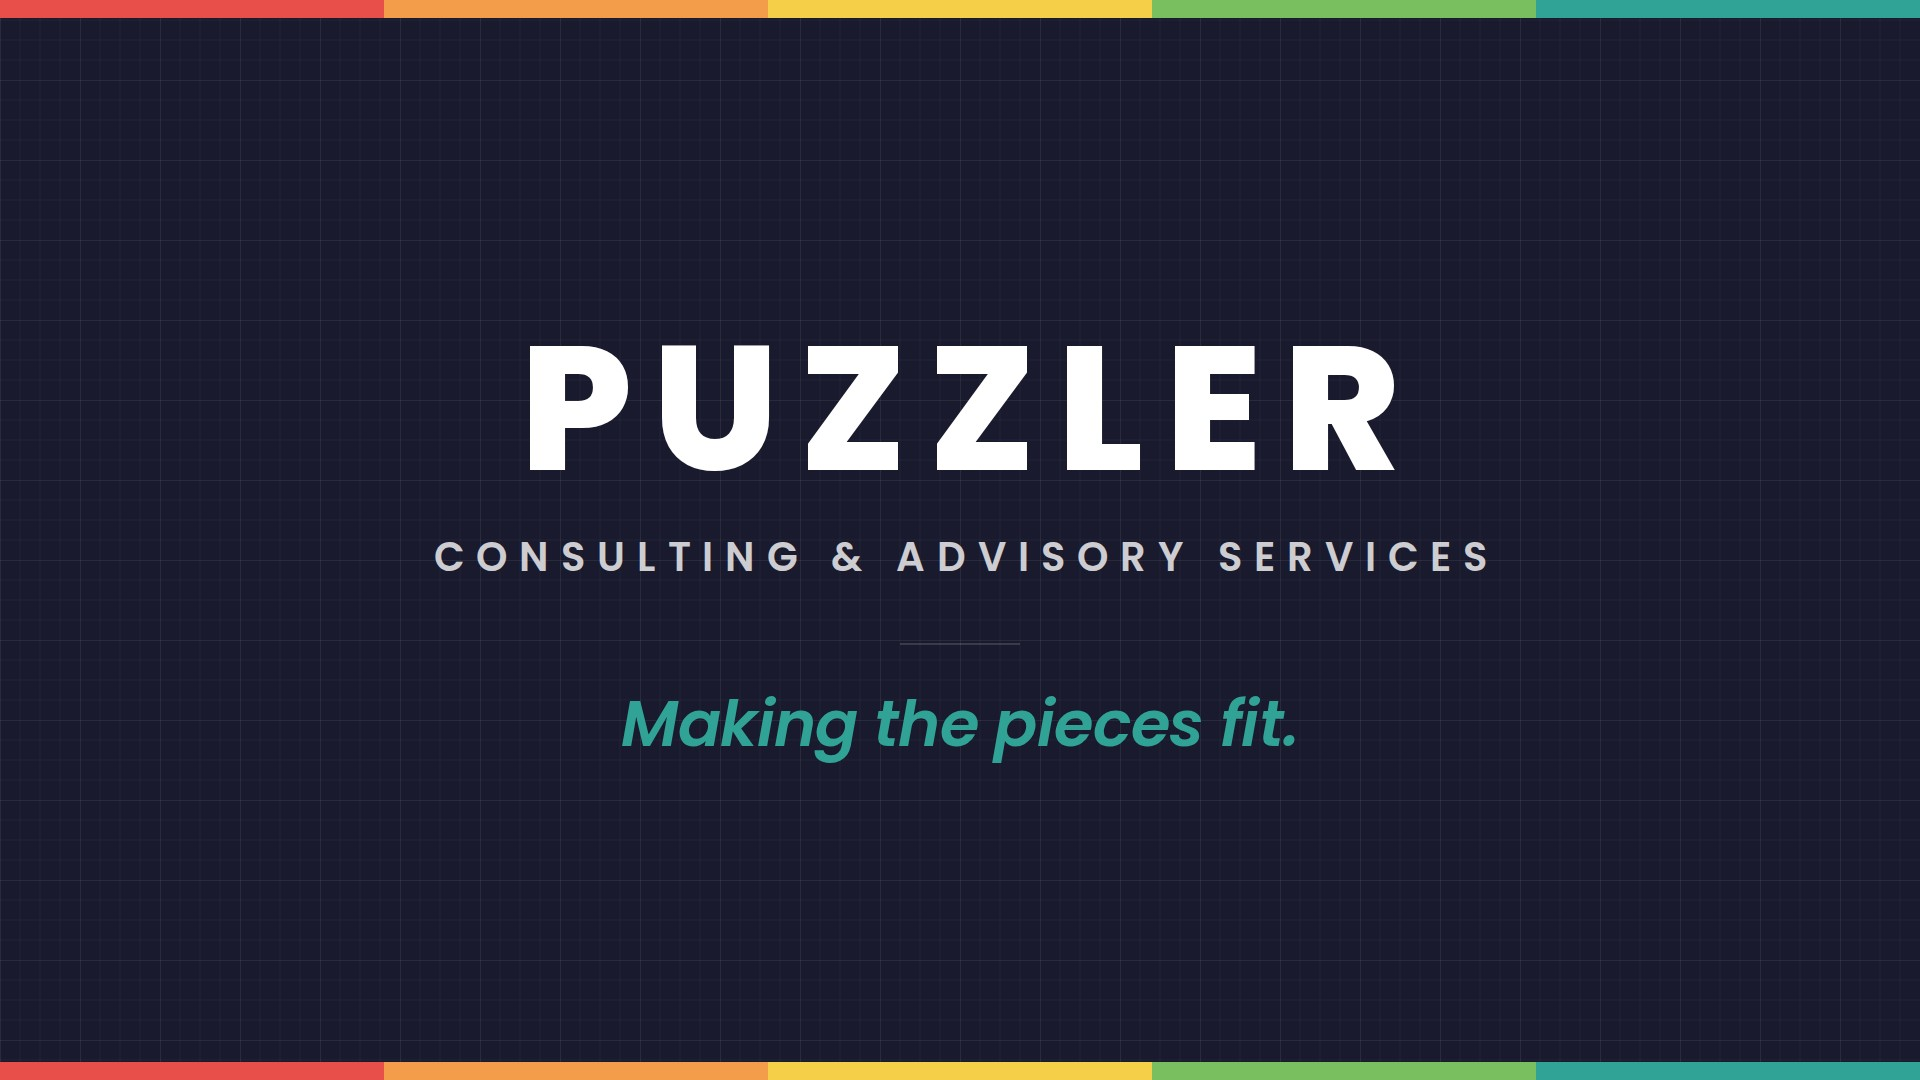
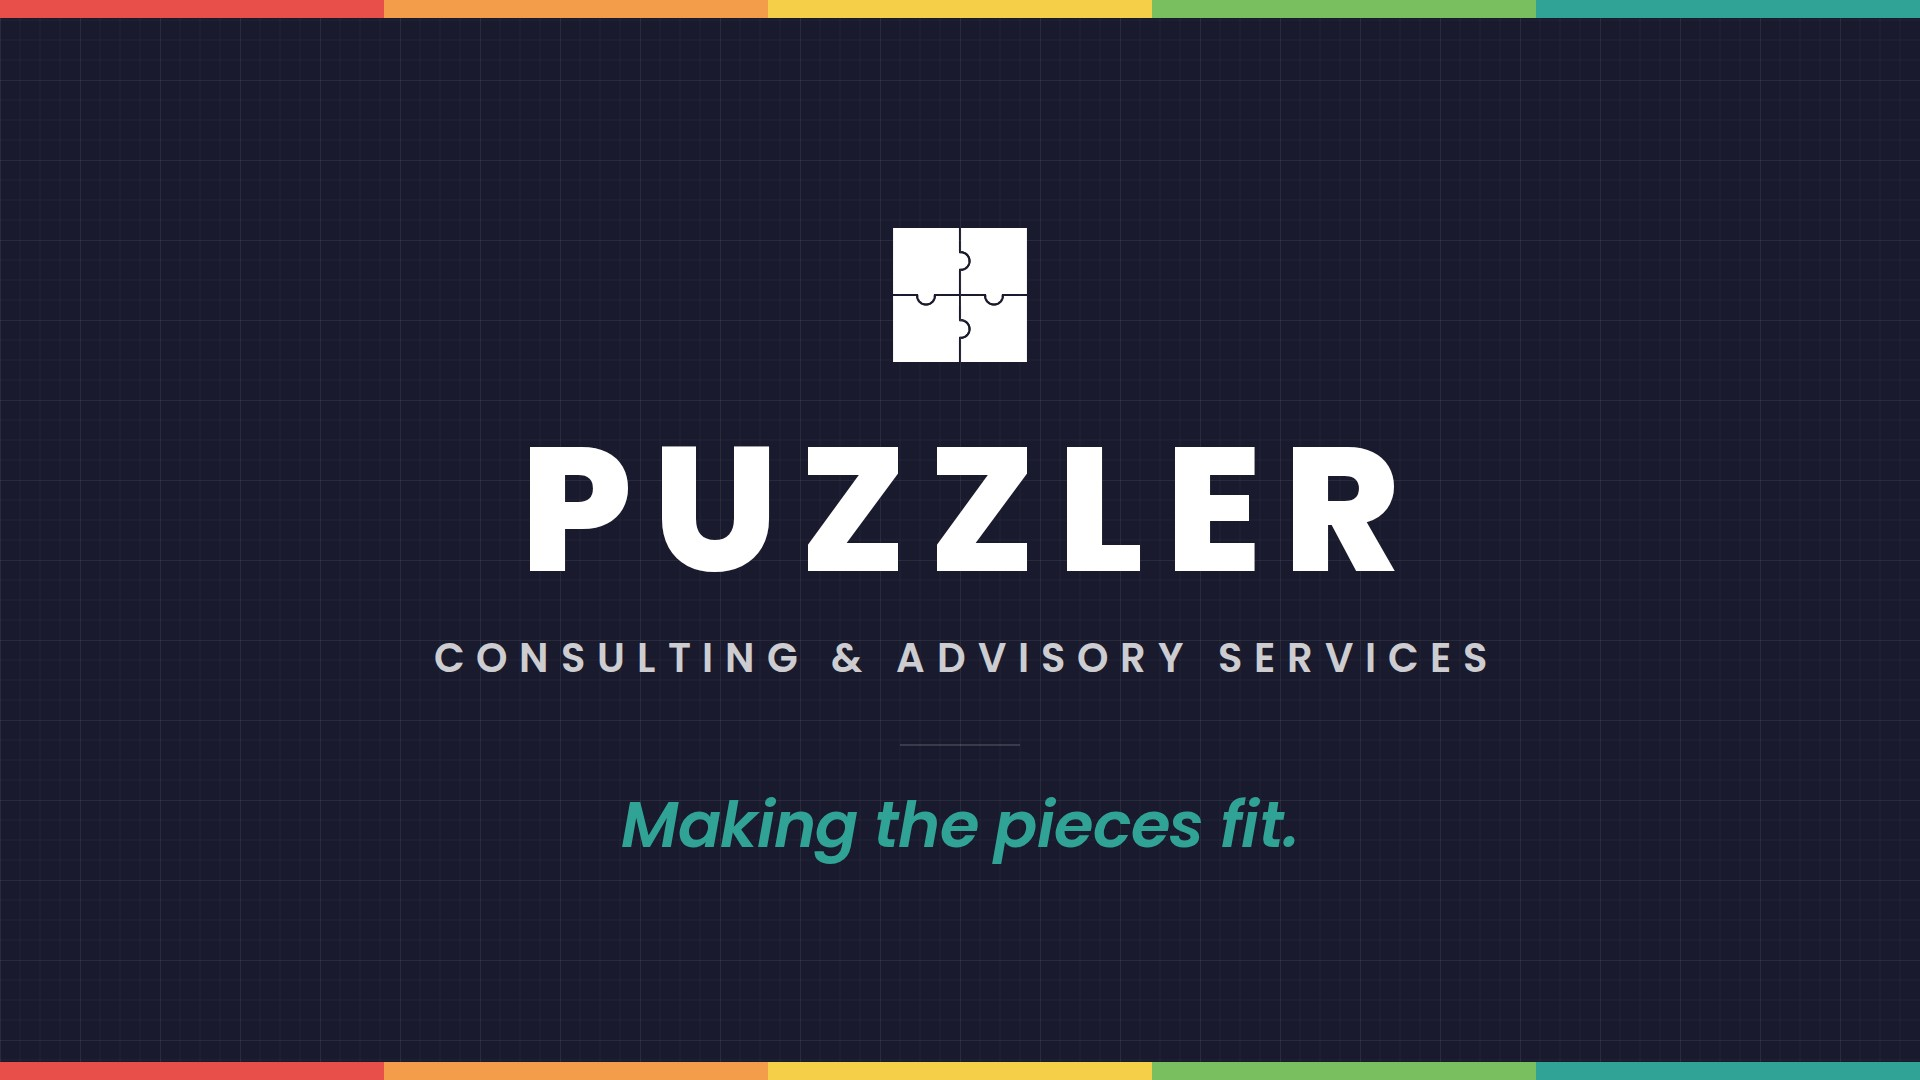
Regenerate the video posters with the mono-white mark
Both Navy posters (Making the Pieces Fit, Capability Brief) now carry the
mono-white mark centred above the headline block at 150 px, the only form
of the mark Brand Standards §8.1 allows on Navy. The poster sources under
website-assets/posters/ gain the image and a .mark rule; the JPEGs were
rebuilt with tools/build-social-preview.mjs and the 1280x720 WebP video
poster with tools/build-video-posters.py. Nothing else on the posters
changed.

check:assets, validate, and verify all pass.

Claude-Session: https://claude.ai/code/session_01NZj4BmqCaf1cTcCdrTWHX6

Changed region(s): [[0.2188, 0.2139, 0.7812, 0.55], [0.2188, 0.5806, 0.7812, 0.7028], [0.3125, 0.7333, 0.6875, 0.7944]]

diff --git a/website-assets/posters/_poster.css b/website-assets/posters/_poster.css
@@ -1,6 +1,6 @@
 /* Shared styles for the 1920×1080 video posters. Rendered by tools/build-social-preview.mjs. Not served publicly.
-   Navy blueprint surface (BP-03 grid) matches the homepage hero. The four-piece mark is omitted on Navy
-   (Brand Standards §8.1: full-colour mark on white / pale gray only). The mono-white variant now exists at assets/brand/puzzler_logo_mono_white.svg (2026-09-24); the posters have not been regenerated with it yet. */
+   Navy blueprint surface (BP-03 grid) matches the homepage hero. The mark is the mono-white variant
+   (assets/brand/puzzler_logo_mono_white.svg), the only form Brand Standards §8.1 allows on Navy; the full-colour mark never appears here. */
 @font-face { font-family: 'Poppins'; font-style: normal; font-weight: 500; src: url('../../fonts/poppins-500.woff2') format('woff2'); }
 @font-face { font-family: 'Poppins'; font-style: normal; font-weight: 600; src: url('../../fonts/poppins-600.woff2') format('woff2'); }
 @font-face { font-family: 'Poppins'; font-style: normal; font-weight: 800; src: url('../../fonts/poppins-800.woff2') format('woff2'); }
@@ -26,4 +26,5 @@ body { font-family: 'Poppins', sans-serif; color: var(--white); -webkit-font-smo
 .title { font-size: 128px; font-weight: 800; letter-spacing: 0.08em; line-height: 1; margin-left: 0.08em; text-transform: uppercase; }
 .desc { font-size: 40px; font-weight: 600; letter-spacing: 0.30em; text-transform: uppercase; color: var(--on-dark-soft); margin-left: 0.30em; }
 .line { font-size: 64px; font-weight: 600; font-style: italic; letter-spacing: -0.01em; color: var(--teal); line-height: 1.1; }
+.mark { width: 150px; height: 150px; display: block; }
 .rule { height: 2px; width: 120px; background: rgba(255, 255, 255, 0.14); }

diff --git a/website-assets/posters/capability-brief-poster.html b/website-assets/posters/capability-brief-poster.html
@@ -5,6 +5,7 @@
 <title>Source: capability-brief-poster.jpg (1920×1080)</title>
 <link rel="stylesheet" href="_poster.css">
 <style>
+  .mark { margin-bottom: 56px; }
   .eyebrow { margin-bottom: 64px; }
   .title { margin-bottom: 56px; }
   .rule { margin-bottom: 44px; }
@@ -14,6 +15,7 @@
 <div class="card">
   <div class="signature-bar"><span class="s1"></span><span class="s2"></span><span class="s3"></span><span class="s4"></span><span class="s5"></span></div>
   <div class="body">
+    <img class="mark" src="../../assets/brand/puzzler_logo_mono_white.svg" width="150" height="150" alt="">
     <div class="eyebrow">Puzzler Consulting &amp; Advisory Services</div>
     <div class="title">Capability Brief</div>
     <div class="rule"></div>

diff --git a/website-assets/posters/making-the-pieces-fit-poster.html b/website-assets/posters/making-the-pieces-fit-poster.html
@@ -5,6 +5,7 @@
 <title>Source: making-the-pieces-fit-poster.jpg (1920×1080)</title>
 <link rel="stylesheet" href="_poster.css">
 <style>
+  .mark { margin-bottom: 52px; }
   .name { margin-bottom: 30px; }
   .desc { margin-bottom: 56px; }
   .rule { margin-bottom: 44px; }
@@ -14,6 +15,7 @@
 <div class="card">
   <div class="signature-bar"><span class="s1"></span><span class="s2"></span><span class="s3"></span><span class="s4"></span><span class="s5"></span></div>
   <div class="body">
+    <img class="mark" src="../../assets/brand/puzzler_logo_mono_white.svg" width="150" height="150" alt="">
     <div class="name">PUZZLER</div>
     <div class="desc">Consulting &amp; Advisory Services</div>
     <div class="rule"></div>

diff --git a/IMPLEMENTATION_STATUS.md b/IMPLEMENTATION_STATUS.md
@@ -195,7 +195,7 @@ Removed: `files short video.zip` (transfer package in the web root).
 
 - Positioning line changed by the founder on 2026-09-09: "Practitioners, not vendors." is replaced by "Making the pieces fit" everywhere in page copy and metadata (homepage title, hero, social tags, video and brief pages, card page and vCard note). Where the old line sat next to the brand line, the duplicate was collapsed. All three raster files that carried the old line were regenerated on 2026-09-09: `social-preview.png` (WEB-03), `making-the-pieces-fit-poster.jpg`, and `capability-brief-poster.jpg`.
 - WEB-03 produced 2026-09-09: `social-preview.png` is now 1200×630, rendered by `tools/build-social-preview.mjs` from `website-assets/social-preview/social-preview.html` (white surface so the exact BR-01 mark file may be used per Brand Standards §8.1; Poppins 500/600/800 + 600 italic self-hosted; signature bar top and bottom; copy: "Consulting & Advisory Services", "PUZZLER", "Making the pieces fit.", "For nonprofits, small businesses, and organizations doing meaningful work."). `og:image:width`/`height` updated to 1200×630 on `index.html`, `privacy.html`, `terms.html`, `puzzler_card.html`. Re-render with `cd tools && npm run build:social`.
-- Video posters regenerated 2026-09-09 (same pipeline, 1920×1080 JPEG, sources in `website-assets/posters/`, excluded from deployment): Navy blueprint surface (BP-03 grid), signature bar top and bottom, Poppins only. The previous posters used a single teal piece (not the approved mark), a non-Poppins face on the brief poster, and the short name "Puzzler Consulting & Advisory"; both now use the full legal descriptor. No mark appears on the Navy posters because Brand Standards §8.1 restricts the full-colour mark to white / pale gray and the mono-white variant has not been supplied; add it to the poster sources when it arrives.
+- Video posters regenerated 2026-09-09 (same pipeline, 1920×1080 JPEG, sources in `website-assets/posters/`, excluded from deployment): Navy blueprint surface (BP-03 grid), signature bar top and bottom, Poppins only. The previous posters used a single teal piece (not the approved mark), a non-Poppins face on the brief poster, and the short name "Puzzler Consulting & Advisory"; both now use the full legal descriptor. Regenerated again on 2026-09-24 (founder request) with the mono-white mark centred above the headline block at 150 px, the only form of the mark Brand Standards §8.1 allows on Navy; the full-colour mark still never appears on the posters. The 1280×720 WebP video poster was rebuilt from the new JPEG.
 - WEB-01 / WEB-02 produced 2026-09-09 from BR-01 by `tools/build-favicons.mjs` (`cd tools && npm run build:icons`): `favicon.svg` (the mark's four polygons copied verbatim on a white tile, per Brand Standards §8.1), `favicon-32.png`, `favicon-16.png`, `favicon.ico` (16/32/48), `apple-touch-icon.png` (180, 10% padding), `icon-192.png`, `icon-512.png` (manifest). Rasters are Chromium renders of the unmodified SVG file. Every public page now links the SVG, PNG, and ICO icons; the video and brief pages previously linked no icon at all. `check:assets` fails if `favicon.svg` drifts from BR-01. `scripts/build-favicons.ps1` (which derived icons from the single teal piece) was removed.
 
 **Decisions needed**
@@ -221,7 +221,6 @@ Removed: `files short video.zip` (transfer package in the web root).
 - **Hero callout (2026-09-10).** Six treatments were mocked up (A–F) and E1 chosen by the founder. The flicker is deliberately restrained to satisfy the Blueprint Puzzle rule against strobing and continuous decoration: three opacity dips over 0.75 s, once per hover or focus, then steady.
 - **Practice highlight placement.** The result marks its three practices in the foundation list above the tool (text badge "Relevant to your starting point"). If a visitor never scrolls back up, the same three appear as chips in the result, so nothing is lost; say if the badge is unwanted.
 - **Earlier link.** `https://youtu.be/v64HNRW10ZM` was supplied in-session before the LOCK link was confirmed and is no longer used anywhere. Say which project it belongs to if it should appear on the site.
-- **Video posters with the mono-white mark.** The Navy posters still omit the mark (their sources predate the variant). Regenerate them from `website-assets/posters/` with the mark added if it is wanted there; say so.
 - **Founder note on the homepage.** Retained from the approved release; not in the handoff §4 inventory. Keep or move to a future About page.
 - **Draft copy to approve or replace** (each marked `<!-- DRAFT COPY -->` in `index.html`): Operator Gap heading and bridging paragraph; Method intro sentence; the seven Method step descriptions; Who We Serve heading; Ways to Begin heading.
 - **Falcon and the Shadow** trailer selection and poster; **IGNITE** keyframe verification and preview.
